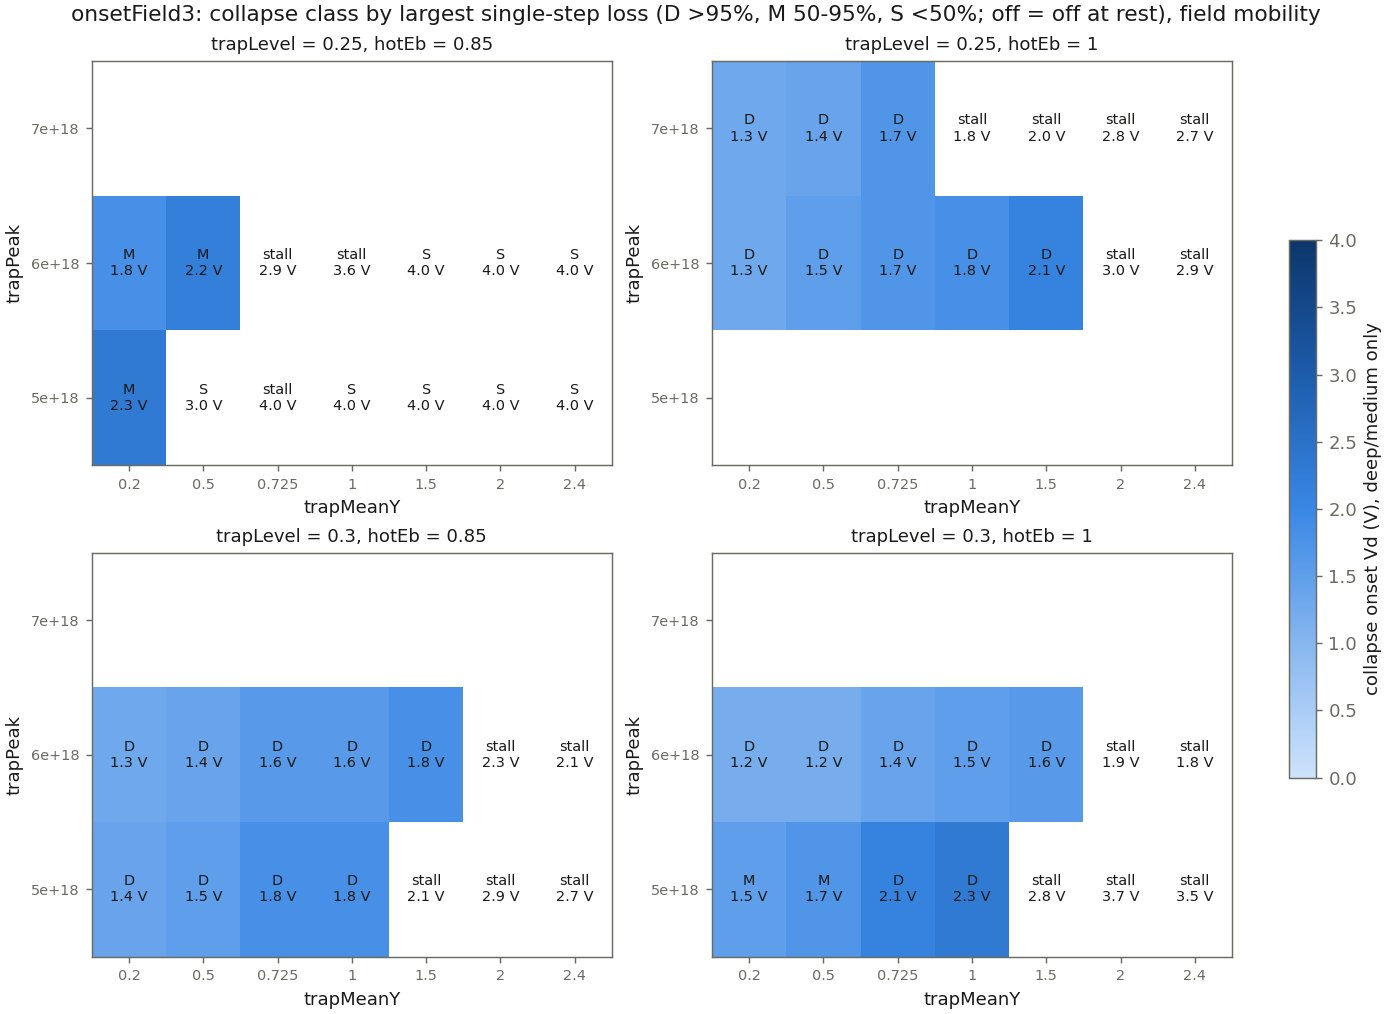
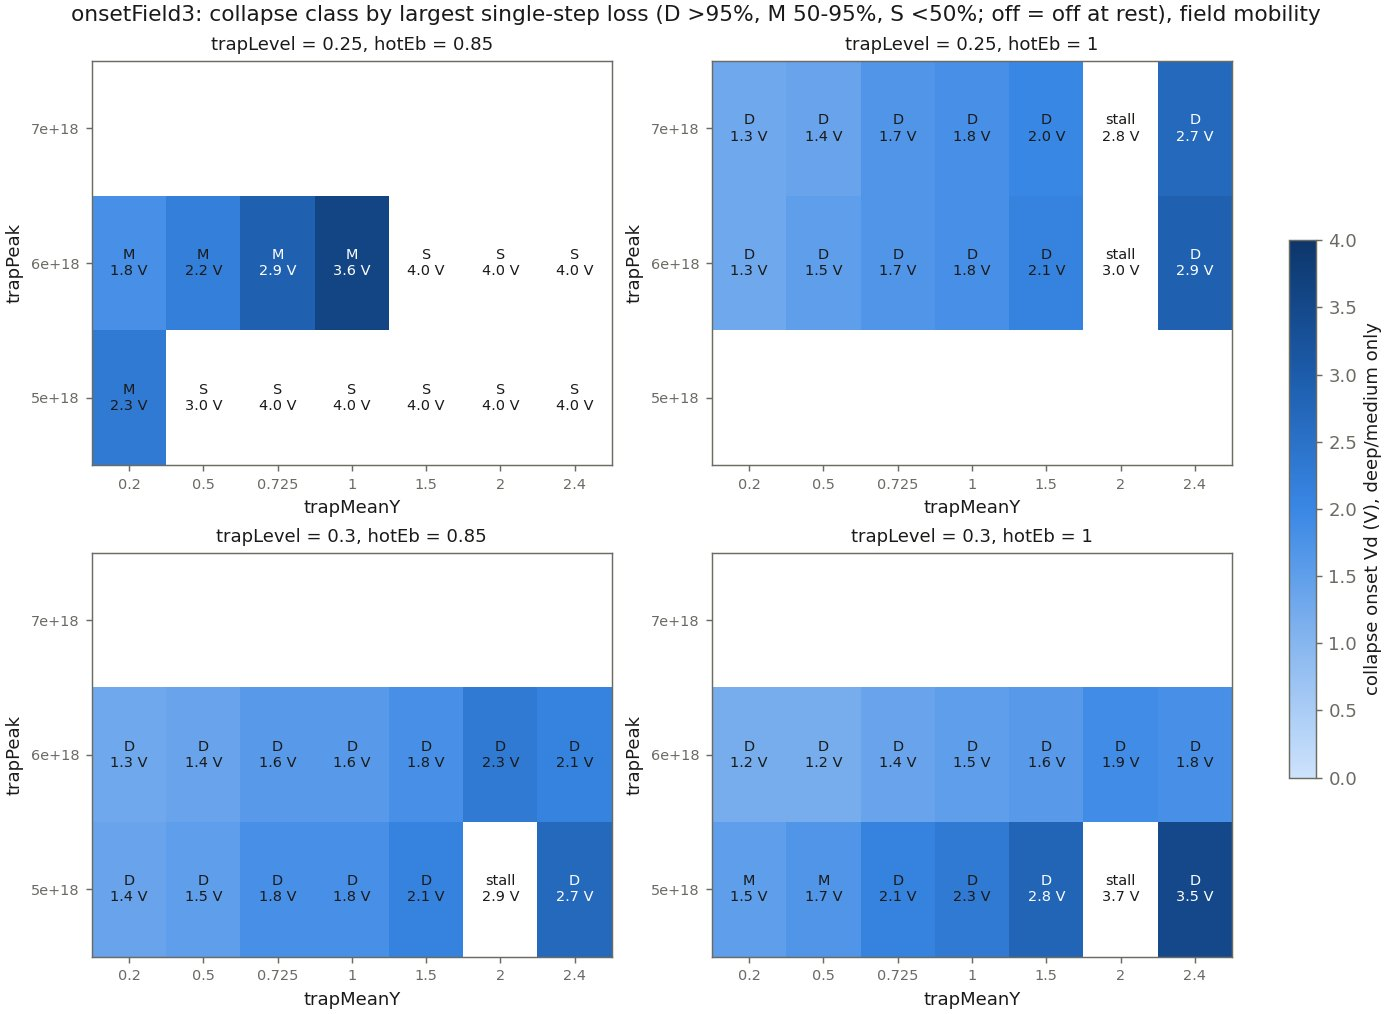
Dashboard: Oct 2 end-of-day update (stall rescue 24/30, latest deep collapse 3.5 V); plot_lateIdVd.py
Claude-Session: https://claude.ai/code/session_01T8r4Sbc8W7NUQPpahQmti5

diff --git a/dashboard/hemt-collapse-log.html b/dashboard/hemt-collapse-log.html
@@ -119,7 +119,7 @@ code { font-family: var(--f-mono); font-size: .88em; background: var(--gray-soft
 
 <div class="wrap">
   <header class="top">
-    <div class="eyebrow">FLOOXS TCAD · AlGaN/GaN HEMT · HiPerGator sweeps · snapshot 2026-10-02, 13:45</div>
+    <div class="eyebrow">FLOOXS TCAD · AlGaN/GaN HEMT · HiPerGator sweeps · snapshot 2026-10-02, 14:51</div>
     <h1>Radiation-induced current collapse: work log</h1>
     <p class="lede">What was run each day, with example figures, and what still needed work. Currents are in mA/mm, measured at Vg = −2 V unless noted. Work before Oct 1 used the old constant mobility and is archived; current work uses the calibrated field-dependent mobility.</p>
   </header>
@@ -146,20 +146,20 @@ code { font-family: var(--f-mono); font-size: .88em; background: var(--gray-soft
       <section class="page" id="overview" data-title="Overview">
         <div class="pagehead">
           <h2>Where things stand</h2>
-          <p>Ten working days. The model is now calibrated against a measured HfO₂ device, and the late-onset search with that model has pushed the deep collapse from 0.2 V (Run F) to at least 2.3 V. Many of the latest collapses were stuck at a solver stall; a fix is running now.</p>
+          <p>Ten working days. The model is now calibrated against a measured HfO₂ device, and the late-onset search with that model has pushed the deep collapse from 0.2 V (Run F) to 3.5 V. A solver stall that hid the latest collapses was fixed the same day; 6 of 30 stalled runs remain.</p>
         </div>
         <div class="tiles">
           <div class="tile ok"><span class="k">Calibration</span><span class="v">±2.4%</span><span class="s">Field-mobility model vs measured HfO₂ transfer curve, Vg −2.6 to +1 V at Vds = 10 V. No parameters changed.</span></div>
-          <div class="tile"><span class="k">Latest deep collapse</span><span class="v">≥ 2.3 V</span><span class="s">0.30 eV / 5e18 cm⁻³ / hotTau 1e-14 / hotEb 1.0 at y = 1.0 µm, from full current (166 mA/mm). Up from 0.2 V for Run F.</span></div>
-          <div class="tile warn"><span class="k">Stall rescue</span><span class="v">15 / 30</span><span class="s">Stalled runs rescued so far by the new Te-ramp fallback; 1 gave up. Jobs 44452288 and 44452289 still running.</span></div>
+          <div class="tile"><span class="k">Latest deep collapse</span><span class="v">3.5 V</span><span class="s">0.30 eV / 5e18 cm⁻³ / hotTau 1e-14 / hotEb 1.0 at y = 2.4 µm: 177 → 0.0018 mA/mm in one 0.1 V step, then a slow creep. Up from 0.2 V for Run F.</span></div>
+          <div class="tile ok"><span class="k">Stall rescue</span><span class="v">24 / 30</span><span class="s">Stalled runs rescued by the Te-ramp fallback (jobs 44452288/9). The 6 left are all near y = 2.0 µm.</span></div>
           <div class="tile"><span class="k">HPG burst runs</span><span class="v">~1,700</span><span class="s">Device simulations on <code>ee1-b</code> since Sep 24; zero <code>munmap</code> crashes since the Sep 27 retry driver.</span></div>
         </div>
 
         <div class="panel">
           <h3>Open items</h3>
           <ul class="todo">
-            <li><span class="pill progress">in progress</span><span>Resolve the runs that stall at the runaway (19 in round 3, 11 in the position map). The damping retry rescued none; the Te-ramp fallback is rescuing them now. <a class="daylink" href="#oct02">Oct 2</a></span></li>
-            <li><span class="pill progress">in progress</span><span>Confirm the latest collapse onset. 2.3 V is a lower bound until the stalled devices (stalls at 2.7–4.0 V) are resolved. <a class="daylink" href="#oct02">Oct 2</a></span></li>
+            <li><span class="pill open">open</span><span>6 runs still stall at the runaway (all near y = 2.0 µm, 2.8–3.7 V; the Te-ramp step falls below its 0.002 floor at full current). A lower <code>teRampMin</code> is the next thing to try. <a class="daylink" href="#oct02">Oct 2</a></span></li>
+            <li><span class="pill open">open</span><span>Insulator (nitride) trap charge has only been tested with static mobility; not yet repeated with the calibrated field mobility. <a class="daylink" href="#oct01">Oct 1</a></span></li>
             <li><span class="pill open">open</span><span>Calibration only covers saturation (Vds = 10 V). The low-Vd linear region where collapses happen is unvalidated, and gm above +0.5 V is too low (88 vs 160 mS/mm). <a class="daylink" href="#oct01">Oct 1</a></span></li>
             <li><span class="pill open">open</span><span>How much of the passivation's trap density is filled. Filled, neutral and positive insulator charge give three different answers. <a class="daylink" href="#oct01">Oct 1</a></span></li>
             <li><span class="pill open">open</span><span>Mesh in the access region (25–40 nm) is too coarse for narrow traps; needs refinement before TRIM or cascade-shape work. <a class="daylink" href="#sep27">Sep 27</a></span></li>
@@ -172,7 +172,7 @@ code { font-family: var(--f-mono); font-size: .88em; background: var(--gray-soft
           <h3>Timeline</h3>
           <div class="scroll-x">
             <table class="tl">
-              <tr><td>Oct 2</td><td>Late-onset rounds 1–3 with field mobility (1.0 → 1.4 → 2.3 V); position-map surfaces and GIF; diagnosed and fixed the runaway stall.</td><td><a class="daylink" href="#oct02">open</a></td></tr>
+              <tr><td>Oct 2</td><td>Late-onset rounds 1–3 with field mobility (1.0 → 1.4 → 2.3 V); position-map surfaces and GIF; fixed the runaway stall (24/30 rescued), latest deep collapse 3.5 V.</td><td><a class="daylink" href="#oct02">open</a></td></tr>
               <tr><td>Oct 1</td><td>Insulator trap charge, deep traps, HighK vs SiN, calibration to the HfO₂ device, Run F map with field mobility, static work archived.</td><td><a class="daylink" href="#oct01">open</a></td></tr>
               <tr><td>Sep 30</td><td>Progress-report slide deck.</td><td><a class="daylink" href="#sep30">open</a></td></tr>
               <tr><td>Sep 28</td><td>Critical-strike probability at 1e7 ions/cm², W = 200 µm.</td><td><a class="daylink" href="#sep28">open</a></td></tr>
@@ -191,34 +191,36 @@ code { font-family: var(--f-mono); font-size: .88em; background: var(--gray-soft
       <section class="page" id="oct02" data-title="Oct 2">
         <div class="pagehead">
           <h2>Oct 2 · Late onset with field mobility, position surfaces, stall fix</h2>
-          <p>Pushed the collapse onset out with the calibrated mobility, mapped how trap position sets the onset, and found and fixed the solver stall that hid the latest collapses.</p>
+          <p>Pushed the collapse onset out with the calibrated mobility, mapped how trap position sets the onset, and found and fixed the solver stall that hid the latest collapses. Latest deep collapse at the end of the day: 3.5 V.</p>
           <div class="chips"><span class="chip era-field">field mobility</span><span class="chip">jobs 44359813 · 44433016 · 44435511 · 44441813 · 44443669 · 44452288 · 44452289</span></div>
         </div>
         <div class="cols">
           <div class="panel"><h3>Done</h3>
             <ul class="done">
-              <li>Late-onset rounds 1–3 (202 devices). Latest deep collapse <span class="num">1.0 → 1.4 → 2.3 V</span>. The 2.3 V device (0.30 eV / 5e18 / hotTau 1e-14 / hotEb 1.0 at y = 1.0 µm) runs at full current (<span class="num">166 mA/mm</span>) until it collapses.</li>
-              <li>Trap position is a strong onset lever: moving traps from y = 0.2 to 1.0 µm delays the collapse by ~0.8 V; beyond ~1.5–2 µm they no longer collapse.</li>
-              <li>Position map (65 positions): 10 surfaces at fixed Vd and a GIF in 0.1 V steps. Onset rises with distance from the gate, and traps nearer the 2DEG reach farther out.</li>
+              <li>Late-onset rounds 1–3 (202 devices). Latest deep collapse <span class="num">1.0 → 1.4 → 2.3 V</span>, then <span class="num">3.5 V</span> after the stall rescue: 0.30 eV / 5e18 / hotTau 1e-14 / hotEb 1.0 at y = 2.4 µm runs at <span class="num">177 mA/mm</span> (98.5% of trap-free) to 3.4 V, drops to <span class="num">0.0018 mA/mm</span> in one step and creeps to 0.0023 by 4 V, the measured shape.</li>
+              <li>Trap position is the strongest onset lever: for the best set the onset goes 1.5 / 1.7 / 2.1 / 2.3 / 2.8 / 3.5 V at y = 0.2 / 0.5 / 0.725 / 1.0 / 1.5 / 2.4 µm.</li>
+              <li>Position map (65 positions): 10 surfaces at fixed Vd and a GIF in 0.1 V steps. Surface traps collapse (deep) from <span class="num">1.6 V</span> at y = 0.285 µm to <span class="num">3.0 V</span> at y = 1.75 µm; 50/65 positions are cut &gt;10× by 3 V.</li>
               <li>Collapse classes adopted: deep (&gt;95% lost in one step), medium (50–95%), shallow (&lt;50%), plus "stalled" for runs that stop at the runaway.</li>
-              <li>Stall diagnosed: the solve diverges right after the electron temperature jumps halfway to its new target. Added a Te-ramp fallback that steps Te gradually at fixed Vd; locally it rescued a 1.8 V stall (<span class="num">137 → 0.00085 mA/mm</span>) with 0–1.7 V unchanged.</li>
+              <li>Stall diagnosed: the solve diverges right after the electron temperature jumps halfway to its new target. Added a Te-ramp fallback that steps Te gradually at fixed Vd (results before the stall unchanged). It rescued <span class="num">24 of 30</span> stalls: 15/19 in round 3 (job 44452288), 9/11 in the position map (job 44452289).</li>
             </ul>
           </div>
           <div class="panel"><h3>Needed work</h3>
             <ul class="todo">
-              <li><span class="pill progress">in progress</span><span>19 of 56 round-3 runs and 11 of 65 position-map runs stalled. The damping retry (job 44443669) resolved none; the Te-ramp rescue (jobs 44452288/9) has rescued 15 so far, with 1 giving up.</span></li>
-              <li><span class="pill progress">in progress</span><span>2.3 V is a lower bound: 9 stalled devices stop between 2.7 and 4.0 V and may collapse there.</span></li>
+              <li><span class="pill resolved">fixed</span><span>19 of 56 round-3 runs and 11 of 65 position-map runs stalled. The damping retry (job 44443669) resolved none; the Te-ramp rescue resolved 24.</span></li>
+              <li><span class="pill open">open</span><span>6 stalls left, all near y = 2.0 µm (2.8–3.7 V). The ramp step drops below its 0.002 floor at full current; try a lower <code>teRampMin</code>.</span></li>
+              <li><span class="pill noted">noted</span><span>A rescued point is driven closer to the fill-only steady state (Te within 1% of target) than a normal point (4 relaxation steps), so its depth is not strictly comparable.</span></li>
               <li><span class="pill resolved">fixed</span><span>The analysis had counted stalled runs as shallow, and reported two-step collapses at the second drop. Both corrected.</span></li>
               <li><span class="pill noted">stopped</span><span>Round 4 (refinement around 2.3 V) cancelled with 44 of 61 done; not analysed.</span></li>
             </ul>
           </div>
         </div>
         <div class="figs">
-          <figure><a class="img" href="fig/onsetField3.jpg" target="_blank" rel="noopener"><img src="fig/onsetField3.jpg" alt="Grid of collapse onset and class for eight trap sets at seven lateral positions" loading="lazy"></a><figcaption><b>Round 3: onset by trap set and position</b>Cells show class (D/M/S) and onset Vd. Later onsets cluster around y = 1.0–1.5 µm.</figcaption></figure>
-          <figure><a class="img" href="fig/posMapLate_onset.jpg" target="_blank" rel="noopener"><img src="fig/posMapLate_onset.jpg" alt="Map of collapse onset voltage over trap depth and lateral position" loading="lazy"></a><figcaption><b>Onset over trap position</b>Onset rises from 1.4 V near the gate to 2.4 V at y = 1.75 µm (7.5 nm deep). "stall" cells are the runs being rescued.</figcaption></figure>
+          <figure><a class="img" href="fig/lateOnset_IdVd.jpg" target="_blank" rel="noopener"><img src="fig/lateOnset_IdVd.jpg" alt="Id-Vd on a log scale for the trap-free device and two late-collapsing trap positions" loading="lazy"></a><figcaption><b>The latest deep collapses, Id-Vd</b>Full current until 2.3 V (y = 1.0 µm) or 3.5 V (y = 2.4 µm), then a ~1e5× drop in one step and a creep up with Vd.</figcaption></figure>
+          <figure><a class="img" href="fig/onsetField3.jpg" target="_blank" rel="noopener"><img src="fig/onsetField3.jpg" alt="Grid of collapse onset and class for eight trap sets at seven lateral positions" loading="lazy"></a><figcaption><b>Round 3: onset by trap set and position (after rescue)</b>Deep 36, medium 7, shallow 9, stalled 4. The latest onsets sit farthest from the gate, up to 3.5 V at y = 2.4 µm.</figcaption></figure>
+          <figure><a class="img" href="fig/posMapLate_onset.jpg" target="_blank" rel="noopener"><img src="fig/posMapLate_onset.jpg" alt="Map of collapse onset voltage over trap depth and lateral position" loading="lazy"></a><figcaption><b>Onset over trap position</b>Surface traps: 1.6 V at y = 0.285 µm to 3.0 V at y = 1.75 µm, all deep. 2 "stall" cells remain at y = 2.0 µm.</figcaption></figure>
         </div>
         <div class="figs wide">
-          <figure><a class="img" href="fig/posMapLate_grid.jpg" target="_blank" rel="noopener"><img src="fig/posMapLate_grid.jpg" alt="Ten 3D surfaces of current suppression over trap position at increasing drain voltage" loading="lazy"></a><figcaption><b>Collapse spreading across trap positions as Vd rises</b>log10(Id_no-trap / Id) over depth and lateral position at Vd = 0.5 and 1.4–3.0 V, shared z-scale. Positions cut more than 10×: 15 up to 1.2 V, 43 by 2.4 V.</figcaption></figure>
+          <figure><a class="img" href="fig/posMapLate_grid.jpg" target="_blank" rel="noopener"><img src="fig/posMapLate_grid.jpg" alt="Ten 3D surfaces of current suppression over trap position at increasing drain voltage" loading="lazy"></a><figcaption><b>Collapse spreading across trap positions as Vd rises</b>log10(Id_no-trap / Id) over depth and lateral position at Vd = 0.5 and 1.4–3.0 V, shared z-scale. Positions cut more than 10×: 15 up to 1.2 V, 50 of 65 by 3.0 V.</figcaption></figure>
           <figure><a class="img" href="fig/posMapLate.gif" target="_blank" rel="noopener"><img src="fig/posMapLate.gif" alt="Animation of the suppression surface as drain voltage sweeps from 0.1 to 3.0 V" loading="lazy"></a><figcaption><b>Same surface, animated (Vd 0.1 → 3.0 V)</b>One frame per simulated 0.1 V step. Orange × marks a run that had stalled before that voltage.</figcaption></figure>
         </div>
         <div class="pager"><a href="#overview">← Overview</a><a href="#oct01">Oct 1 →</a></div>

diff --git a/plot_lateIdVd.py b/plot_lateIdVd.py
@@ -1,0 +1,34 @@
+"""Id-Vd of the latest deep collapses (round 3 + Te-ramp rescue) vs trap-free.
+
+usage: python3 plot_lateIdVd.py  ->  figures/lateOnset_IdVd.png
+"""
+import matplotlib.pyplot as plt
+import numpy as np
+
+R = "results/20261002_onsetField3"
+SET = "pulsedIV_tp5.00e+18_tl0.30_ht1.00e-14_eb1.00_my"
+CURVES = [
+    (f"{R}/task_56/pulsedIV_notrap.csv", "trap-free", "#8a8984", "--"),
+    (f"{R}/task_17/{SET}1.000e+00.csv", "traps at y = 1.0 µm (deep, 2.3 V)", "#86b6ef", "-"),
+    (f"{R}RetryRamp/task_7/{SET}2.400e+00.csv", "traps at y = 2.4 µm (deep, 3.5 V; Te-ramp rescue)", "#1c5cab", "-"),
+]
+INK, MUTED = "#1a1a19", "#6b6a63"
+plt.rcParams.update({"font.size": 10, "axes.edgecolor": MUTED, "xtick.color": MUTED,
+                     "ytick.color": MUTED, "axes.labelcolor": INK})
+fig, ax = plt.subplots(figsize=(7.5, 4.6), constrained_layout=True)
+for f, lab, c, ls in CURVES:
+    d = np.loadtxt(f, delimiter=",", ndmin=2)
+    m = d[:, 0] > 0.05
+    ax.semilogy(d[m, 0], d[m, 1], ls, color=c, lw=2, marker="o" if ls == "-" else None,
+                ms=3, label=lab)
+ax.set_xlabel("Vd (V)")
+ax.set_ylabel("Id (mA/mm)")
+ax.set_xlim(0, 4)
+ax.grid(True, which="major", color="#e6e5df", lw=0.6)
+for s in ("top", "right"):
+    ax.spines[s].set_visible(False)
+ax.legend(frameon=False, fontsize=9, loc="center left")
+ax.set_title("Latest deep collapses: 0.30 eV / 5e18 cm⁻³ / hotTau 1e-14 / hotEb 1.0, σ 40 nm, Vg = −2 V",
+             fontsize=10, color=INK)
+fig.savefig("figures/lateOnset_IdVd.png", dpi=130)
+print("wrote figures/lateOnset_IdVd.png")

diff --git a/progress.md b/progress.md
@@ -996,3 +996,7 @@ Submitted **job 44441813** → `results/20261002_posMapLate/`. Polling every 5 m
 - **Latest deep collapse: 3.5 V** (was 2.3 V): 0.30 eV / 5e18 / hotTau 1e-14 / hotEb 1.0 at **y = 2.4 µm**. 177 mA/mm at 3.4 V (98.5% of trap-free 179.7) → 0.0018 mA/mm at 3.5 V (~1e5× in one step) → slow creep to 0.0023 by 4.0 V — the same collapse-then-creep shape as the measurement. Latest medium: 3.6 V (0.25 / 6e18 / 1e-14 / 0.85 at y 1.0, 91% step).
 - Best set's onset vs position: 1.5 / 1.7 / 2.1 / 2.3 / 2.8 / (stall 3.7) / 3.5 V at y 0.2 / 0.5 / 0.725 / 1.0 / 1.5 / 2.0 / 2.4 µm.
 - Remaining 6 stalls (4 here + 2 in the position map, all near y 2.0 µm): the ramp step hits its 0.002 floor at full current; a lower `teRampMin` is the next thing to try if they matter.
+
+### Dashboard updated for Oct 2 (wrap-up, 14:51)
+- Oct 2 page and overview refreshed with the Te-ramp rescue results (24/30 stalls resolved, latest deep collapse 3.5 V at y = 2.4 µm); new figure `figures/lateOnset_IdVd.png` (`plot_lateIdVd.py`: trap-free vs the 2.3 V and 3.5 V collapses). Version 3: https://claude.ai/artifact/7gwNdzD3SysL7TP9swRkEd
+- No jobs running on HPG. Open next: lower `teRampMin` for the 6 remaining stalls (y ≈ 2.0 µm); nitride trap charge with field mobility.
